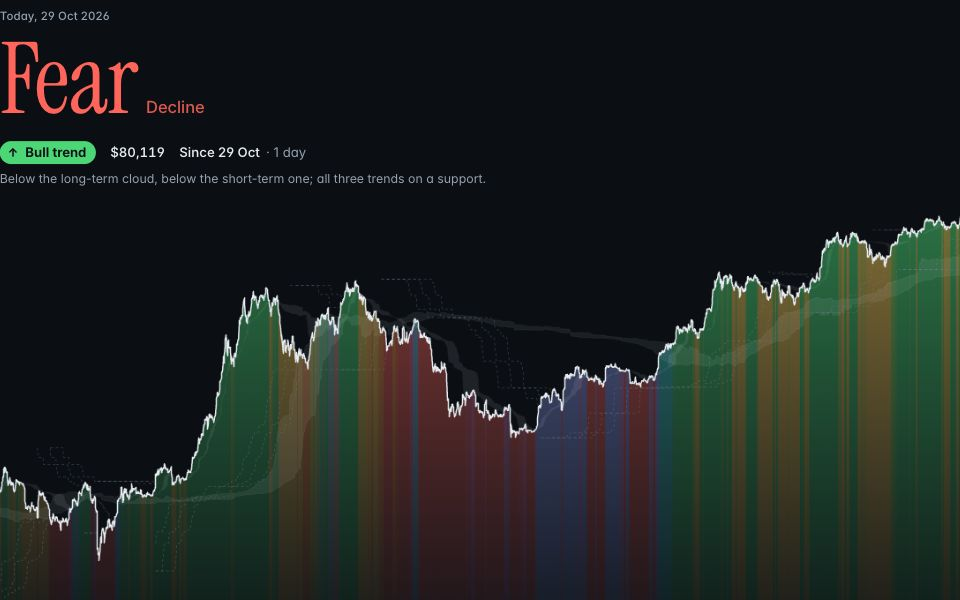
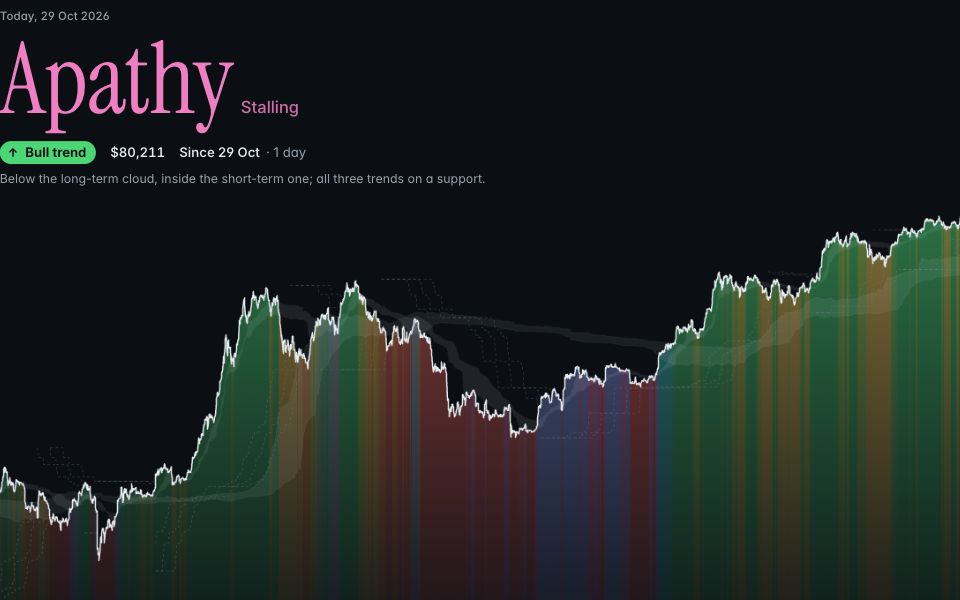
showcases: Compass's clouds from each group's median and average dollar paid.
Each cloud now spans its three groups' median and average price paid, by dollar (six lines, not three), so the in-between moods are real phases rather than slivers: over all days since 2011, inside the long-term cloud 13.1% (was 10.5%), inside the short-term one 17.9% (was 7.6%); Calm 7.9% (was 2.5), Apathy 7.8 (4.3), Doubt 2.2 (0.9), Fear 22.3 (24.4); the mood changes a little less often (716 changes, was 750). Same basis as before, dollars: the average is the dollar-weighted one, not the coin-weighted realized price, which would have mixed two weightings. How it reads says what the clouds now are and mean; six more series read. Today reads Apathy, stalling: price is now inside the short-term cloud. Share card and cover made again.

Checks: its script type-checks clean; the shares on the iPhone match the history computed beforehand, to the decimal.

diff --git a/showcases/compass/index.html b/showcases/compass/index.html
@@ -15,7 +15,7 @@
     <meta property="og:image" content="https://bitview.space/compass/og.png" />
     <meta property="og:image:width" content="1200" />
     <meta property="og:image:height" content="630" />
-    <meta property="og:image:alt" content="Compass on a day of Fear with a bull trend: the state's name over eight years of price, each day coloured by its state, the trend's lane under it" />
+    <meta property="og:image:alt" content="Compass on a day of Apathy with a bull trend: the state's name over eight years of price, each day coloured by its state, the trend's lane under it" />
     <meta name="twitter:card" content="summary_large_image" />
     <link rel="icon" type="image/svg+xml" href="/assets/favicon/favicon.svg" />
     <style>
@@ -1098,13 +1098,13 @@
         <ol class="how">
           <li>
             <h3>The long-term cloud: how holders feel</h3>
-            <p>The median price paid by coins held <b>over 4 months</b>, <b>over 5 months</b> and <b>over 6 months</b>: three lines close together, the cloud between them.</p>
-            <p>Price above it, more than half of the dollars each of those groups put in is in profit; below it, more than half is at a loss; inside, the groups differ. That's the compass's north and south.</p>
+            <p>The median and the average price paid, by dollar, by coins held <b>over 4 months</b>, <b>over 5 months</b> and <b>over 6 months</b>: six lines close together, the cloud between them.</p>
+            <p>Price above it, each of those groups has more than half of the dollars it put in in profit, and its average dollar too; below it, the same at a loss; inside, they differ. That's the compass's north and south.</p>
           </li>
           <li>
             <h3>The short-term cloud: how recent buyers feel</h3>
             <p>The same for coins held <b>under 4 months</b>, <b>under 5 months</b> and <b>under 6 months</b>: what recent buyers paid.</p>
-            <p>Above it, more than half of what each group paid is in profit; below it, more than half is at a loss; inside, the groups differ. That's east and west. Price is each day's close.</p>
+            <p>Above it, each group's median and average dollar is in profit; below it, both at a loss; inside, they differ. That's east and west. Price is each day's close.</p>
           </li>
           <li>
             <h3>Three trends set the territory</h3>
@@ -1112,7 +1112,7 @@
             <p>When all three hold supports, it's <b>bull</b> territory; all three resistances, <b>bear</b>; split, <b>limbo</b>.</p>
           </li>
         </ol>
-        <p class="note">A median here is by dollars and counts mostly the coins that move (<span id="weighting">each age group weighted by how likely its coins are ever to be spent</span>), so lost coins don't hold a cloud down. Every state is read from that day's numbers alone, never from what came after: today's can change by tonight's close.</p>
+        <p class="note">A median and an average here are by dollars and count mostly the coins that move (<span id="weighting">each age group weighted by how likely its coins are ever to be spent</span>), so lost coins don't hold a cloud down. Every state is read from that day's numbers alone, never from what came after: today's can change by tonight's close.</p>
       </section>
     </main>
 
@@ -1188,7 +1188,8 @@
       let coins = "mobile";
       const WEIGHTING = { mobile: "each age group weighted by how likely its coins are ever to be spent", awake: "each age group weighted by how much of its coin days have been spent" };
       /** A cloud's three medians, of the coins counted now. */
-      const cloudIds = (/** @type {"long" | "short"} */ cloud, which = coins) => (cloud === "long" ? ["age_over_4m", "lth", "age_over_6m"] : ["age_under_4m", "sth", "age_under_6m"]).map((k) => `${k}_${which}_cost_basis_by_dollar_median`);
+      /** A cloud's lines, of the coins counted: each of its three groups' median and average price paid, by dollar. */
+      const cloudIds = (/** @type {"long" | "short"} */ cloud, which = coins) => (cloud === "long" ? ["age_over_4m", "lth", "age_over_6m"] : ["age_under_4m", "sth", "age_under_6m"]).flatMap((k) => ["median", "avg"].map((stat) => `${k}_${which}_cost_basis_by_dollar_${stat}`));
       /** Every series read, by id: a switch of coins reads only its clouds'. @type {Map<string, Promise<Answer>>} */
       const answers = new Map();
       /** The series the page needs for some coins, by id, each read once. */
@@ -1262,11 +1263,17 @@
         const get = (/** @type {string} */ id) => byDay(answered[id], n);
         const close = get(SERIES.close), high = get(SERIES.high), low = get(SERIES.low);
         const lines = (/** @type {string[]} */ ids) => ids.map(get);
-        const cloudOf = (/** @type {Float64Array[]} */ three) => {
+        /** A cloud from its lines: their lowest and highest each day, where every one has a value. */
+        const cloudOf = (/** @type {Float64Array[]} */ members) => {
           const bottom = new Float64Array(n).fill(NaN), top = new Float64Array(n).fill(NaN);
           for (let i = 0; i < n; i++) {
-            const a = three[0][i], b = three[1][i], c = three[2][i];
-            if (a > 0 && b > 0 && c > 0) (bottom[i] = Math.min(a, b, c)), (top[i] = Math.max(a, b, c));
+            let low = Infinity, high = -Infinity;
+            for (const line of members) {
+              const value = line[i];
+              if (!(value > 0)) (low = NaN), (high = NaN);
+              else (low = Math.min(low, value)), (high = Math.max(high, value));
+            }
+            if (low > 0) (bottom[i] = low), (top[i] = high);
           }
           return /** @type {[Float64Array, Float64Array]} */ ([bottom, top]);
         };
